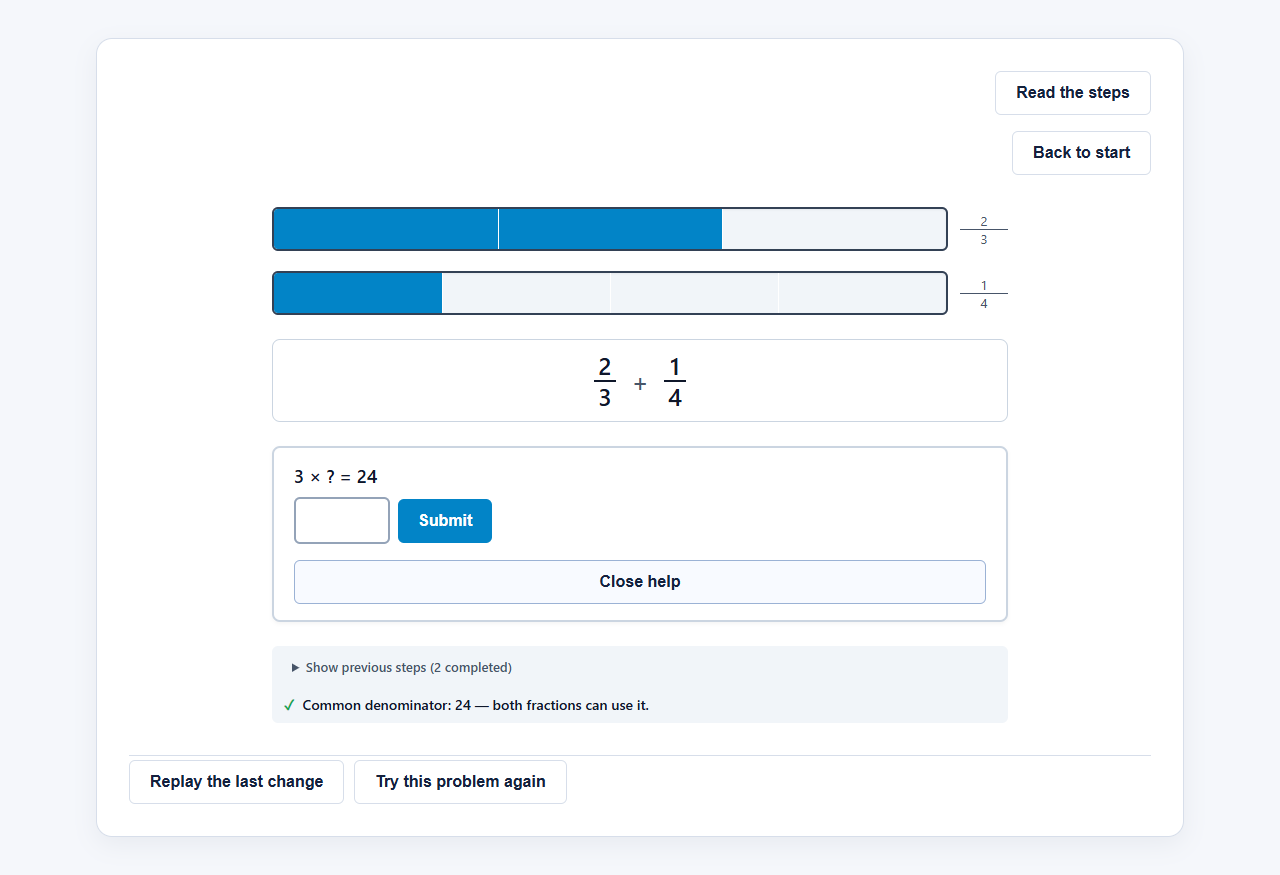
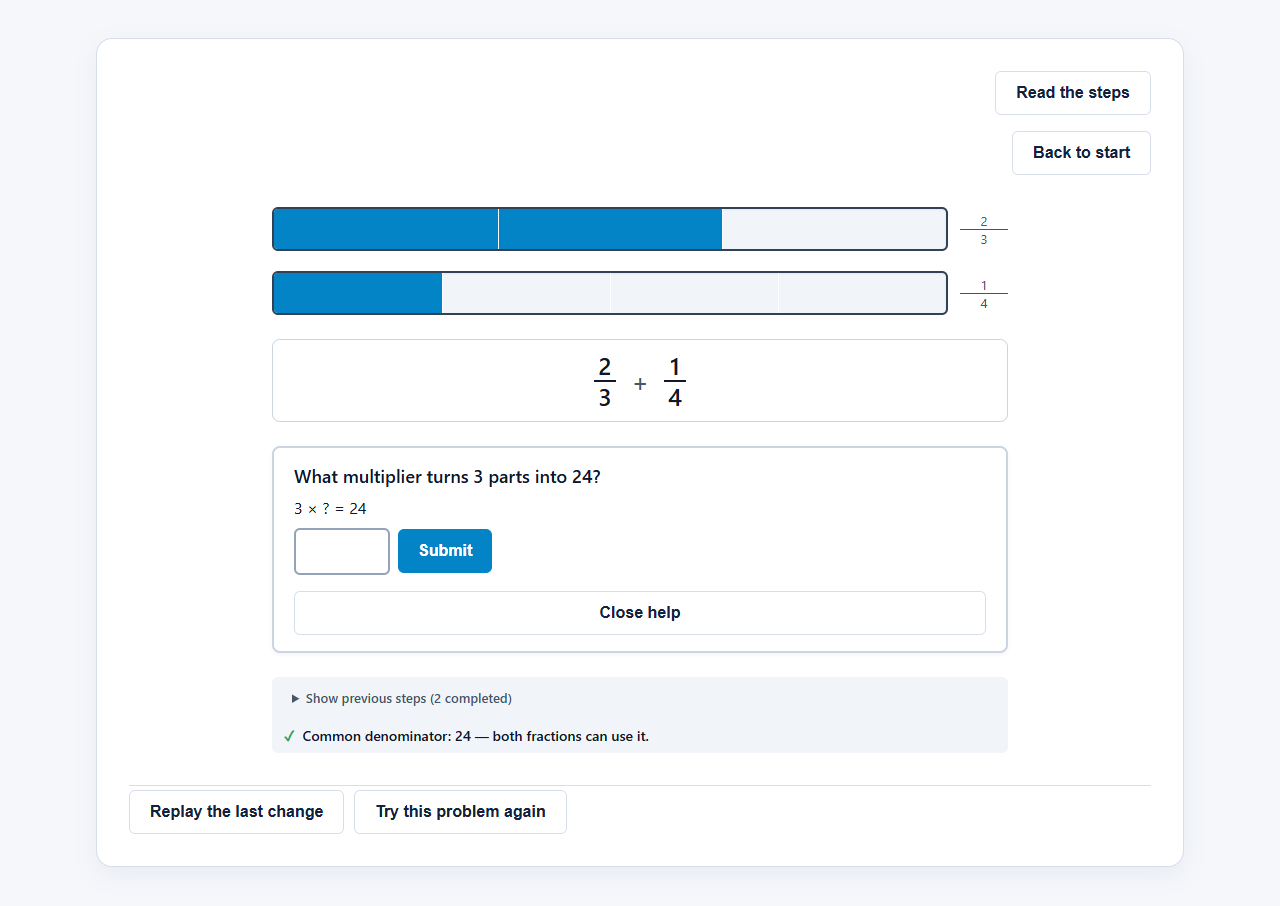
feat: clarify transform multiplier prompt

diff --git a/tests/app-shell.test.js b/tests/app-shell.test.js
@@ -208,7 +208,11 @@ describe('Plan 09 app shell and upstream display switcher', () => {
     let multiplier = root.querySelector('.app-visual-view #transform-help-multiplier-left');
     expect(multiplier).not.toBeNull();
     expect(root.querySelector('.app-visual-view #transform-num-input-left')).toBeNull();
-    expect(root.querySelector('.app-visual-view .active-beat-prompt').textContent).toBe('3 × ? = 24');
+    const multiplierLabel = root.querySelector('.app-visual-view .active-beat-prompt');
+    expect(multiplierLabel.textContent).toBe('What multiplier turns 3 parts into 24?');
+    expect(multiplierLabel.getAttribute('for')).toBe('transform-help-multiplier-left');
+    expect(root.querySelector('.app-visual-view .control-supporting-text').textContent).toBe('3 × ? = 24');
+    expect(multiplier.getAttribute('aria-describedby')).toBe('visual-transform-task-help-equation');
     root.querySelector('.app-visual-view .control-submit-btn').click();
     expect(root.querySelector('.app-visual-view .recovery-feedback').textContent)
       .toBe('Enter a whole number to keep going.');
@@ -258,12 +262,39 @@ describe('Plan 09 app shell and upstream display switcher', () => {
     help = root.querySelector('.app-linear-view .active-beat-controls .app-secondary-button');
     help.click();
     const rightMultiplier = root.querySelector('.app-linear-view #linear-transform-help-multiplier-right');
-    expect(root.querySelector('.app-linear-view .active-beat-prompt').textContent).toBe('4 × ? = 24');
+    const rightMultiplierLabel = root.querySelector('.app-linear-view .active-beat-prompt');
+    expect(rightMultiplierLabel.textContent).toBe('What multiplier turns 4 parts into 24?');
+    expect(rightMultiplierLabel.getAttribute('for')).toBe('linear-transform-help-multiplier-right');
+    expect(root.querySelector('.app-linear-view .control-supporting-text').textContent).toBe('4 × ? = 24');
+    expect(rightMultiplier.getAttribute('aria-describedby')).toBe('linear-transform-task-help-equation');
     rightMultiplier.value = '6';
     root.querySelector('.app-linear-view .control-submit-btn').click();
     expect(root.querySelector('.app-linear-view .active-beat-help').textContent)
       .toBe('Multiply the top by 6, too.');
     expect(root.querySelector('.app-linear-view #linear-transform-num-input-right').value).toBe('');
+  });
+
+  it('formats the multiplier label and notation from both source and target denominators', () => {
+    app.dispatch({ type: 'acknowledge-encounter' });
+    app.dispatch({ type: 'submit-notice', matchesUnits: false });
+    app.dispatch({ type: 'propose-common-denominator', proposed: whole(12) });
+
+    root.querySelector('.app-visual-view .active-beat-controls .app-secondary-button').click();
+    expect(root.querySelector('.app-visual-view .active-beat-prompt').textContent)
+      .toBe('What multiplier turns 3 parts into 12?');
+    expect(root.querySelector('.app-visual-view .control-supporting-text').textContent)
+      .toBe('3 × ? = 12');
+
+    root.querySelector('.app-visual-view #transform-help-multiplier-left').value = '4';
+    root.querySelector('.app-visual-view .control-submit-btn').click();
+    root.querySelector('.app-visual-view #transform-num-input-left').value = '8';
+    root.querySelector('.app-visual-view .control-submit-btn').click();
+    root.querySelector('.app-view-toggle').click();
+    root.querySelector('.app-linear-view .active-beat-controls .app-secondary-button').click();
+    expect(root.querySelector('.app-linear-view .active-beat-prompt').textContent)
+      .toBe('What multiplier turns 4 parts into 12?');
+    expect(root.querySelector('.app-linear-view .control-supporting-text').textContent)
+      .toBe('4 × ? = 12');
   });
 
   it('keeps prior numerator recovery separate while the multiplier substep is active', () => {
@@ -276,7 +307,9 @@ describe('Plan 09 app shell and upstream display switcher', () => {
 
     const help = root.querySelector('.app-visual-view .active-beat-controls .app-secondary-button');
     help.click();
-    expect(root.querySelector('.app-visual-view .active-beat-prompt').textContent).toBe('3 × ? = 24');
+    expect(root.querySelector('.app-visual-view .active-beat-prompt').textContent)
+      .toBe('What multiplier turns 3 parts into 24?');
+    expect(root.querySelector('.app-visual-view .control-supporting-text').textContent).toBe('3 × ? = 24');
     expect(root.querySelector('.app-visual-view .recovery-feedback')).toBeNull();
     expect(app.getState().lastRecovery.classification.kind).toBe('incorrect-equivalent-numerator');
 

diff --git a/src/render/controls.js b/src/render/controls.js
@@ -43,6 +43,8 @@ export function createButton({
 export function createNumericInput({
   label,
   id,
+  supportingText = null,
+  supportingTextId = null,
   min = 1,
   max = 999,
   onSubmit,
@@ -59,6 +61,15 @@ export function createNumericInput({
   labelEl.textContent = label;
   wrapper.appendChild(labelEl);
 
+  let supportingTextEl = null;
+  if (typeof supportingText === 'string' && supportingText.length > 0) {
+    supportingTextEl = document.createElement('p');
+    supportingTextEl.id = supportingTextId || `${id}-supporting-text`;
+    supportingTextEl.classList.add('control-supporting-text');
+    supportingTextEl.textContent = supportingText;
+    wrapper.appendChild(supportingTextEl);
+  }
+
   const inputGroup = document.createElement('div');
   inputGroup.classList.add('control-input-group');
 
@@ -70,6 +81,7 @@ export function createNumericInput({
   inputEl.min = String(min);
   inputEl.max = String(max);
   inputEl.setAttribute('inputmode', 'numeric');
+  if (supportingTextEl) inputEl.setAttribute('aria-describedby', supportingTextEl.id);
   inputGroup.appendChild(inputEl);
 
   const submitBtn = createButton({

diff --git a/src/render/linear-path.js b/src/render/linear-path.js
@@ -539,7 +539,9 @@ export function createLinearPathRenderer({
           emptyNotice.setAttribute('role', 'alert');
           const multiplierInput = createNumericInput({
             id: `linear-transform-help-multiplier-${side}`,
-            label: strings.transform.helpMultiplierPrompt(sourceForm.denominator, targetDen),
+            label: strings.transform.helpMultiplierInstruction(sourceForm.denominator, targetDen),
+            supportingText: strings.transform.helpMultiplierPrompt(sourceForm.denominator, targetDen),
+            supportingTextId: 'linear-transform-task-help-equation',
             min: 0,
             max: Number(targetDen),
             strings,

diff --git a/src/render/beat-container.js b/src/render/beat-container.js
@@ -478,7 +478,9 @@ export function createBeatContainer({
         if (showMultiplierStep) {
           const multiplierInput = createNumericInput({
             id: `transform-help-multiplier-${side}`,
-            label: strings.transform.helpMultiplierPrompt(sourceForm.denominator, targetDen),
+            label: strings.transform.helpMultiplierInstruction(sourceForm.denominator, targetDen),
+            supportingText: strings.transform.helpMultiplierPrompt(sourceForm.denominator, targetDen),
+            supportingTextId: 'visual-transform-task-help-equation',
             min: 0,
             max: Number(targetDen),
             strings,

diff --git a/src/render/strings.js b/src/render/strings.js
@@ -79,6 +79,9 @@ export const STRINGS = Object.freeze({
     scaleFactorPrompt: (mult) => (
       `Multiply the top and bottom by ${mult}.`
     ),
+    helpMultiplierInstruction: (sourceDen, targetDen) => (
+      `What multiplier turns ${sourceDen} parts into ${targetDen}?`
+    ),
     helpMultiplierPrompt: (sourceDen, targetDen) => `${sourceDen} × ? = ${targetDen}`,
     helpMultiplierAccepted: (multiplier) => `Multiply the top by ${multiplier}, too.`,
     helpMultiplierError: 'That number does not make the same size parts. Try again.',

diff --git a/src/styles/render.css b/src/styles/render.css
@@ -720,6 +720,12 @@
   font-size: 0.9375rem;
 }
 
+.control-supporting-text {
+  margin: 0;
+  color: var(--ff-color-text);
+  line-height: 1.4;
+}
+
 .control-label.active-beat-prompt,
 .control-legend.active-beat-prompt {
   display: block;
